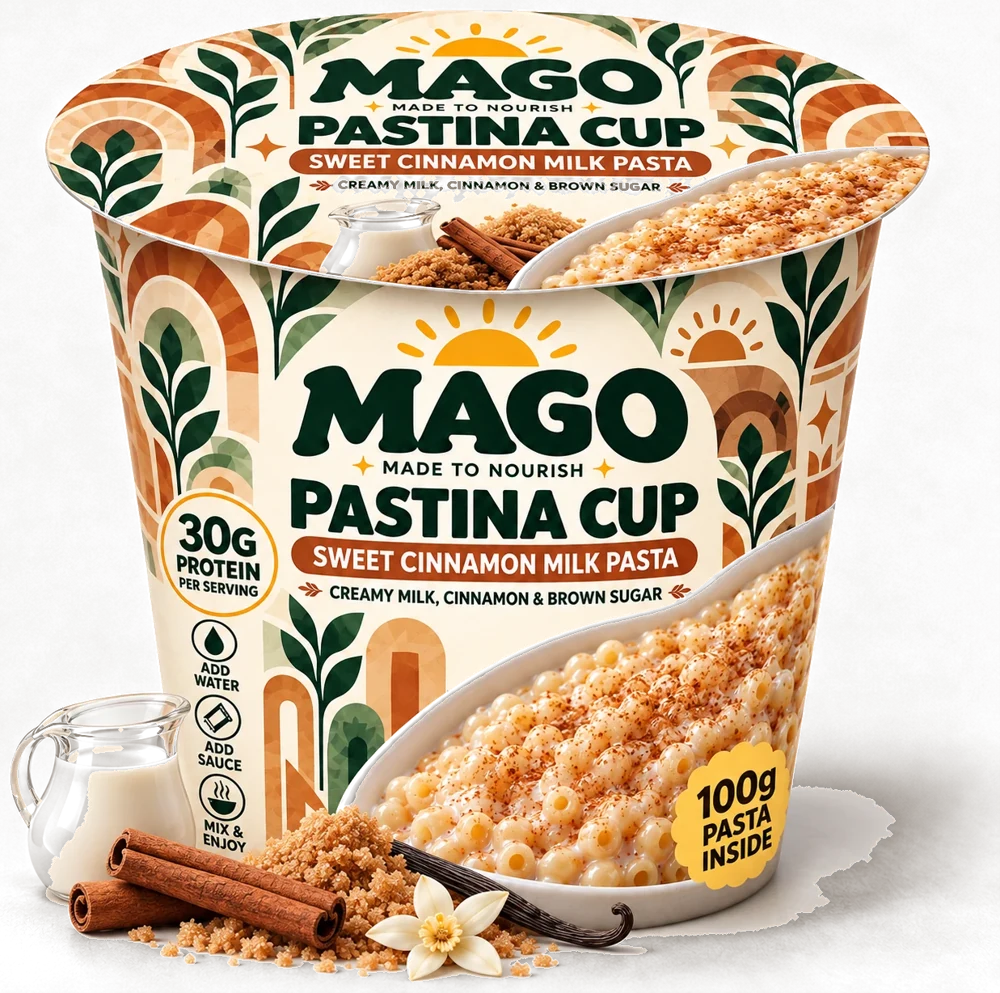
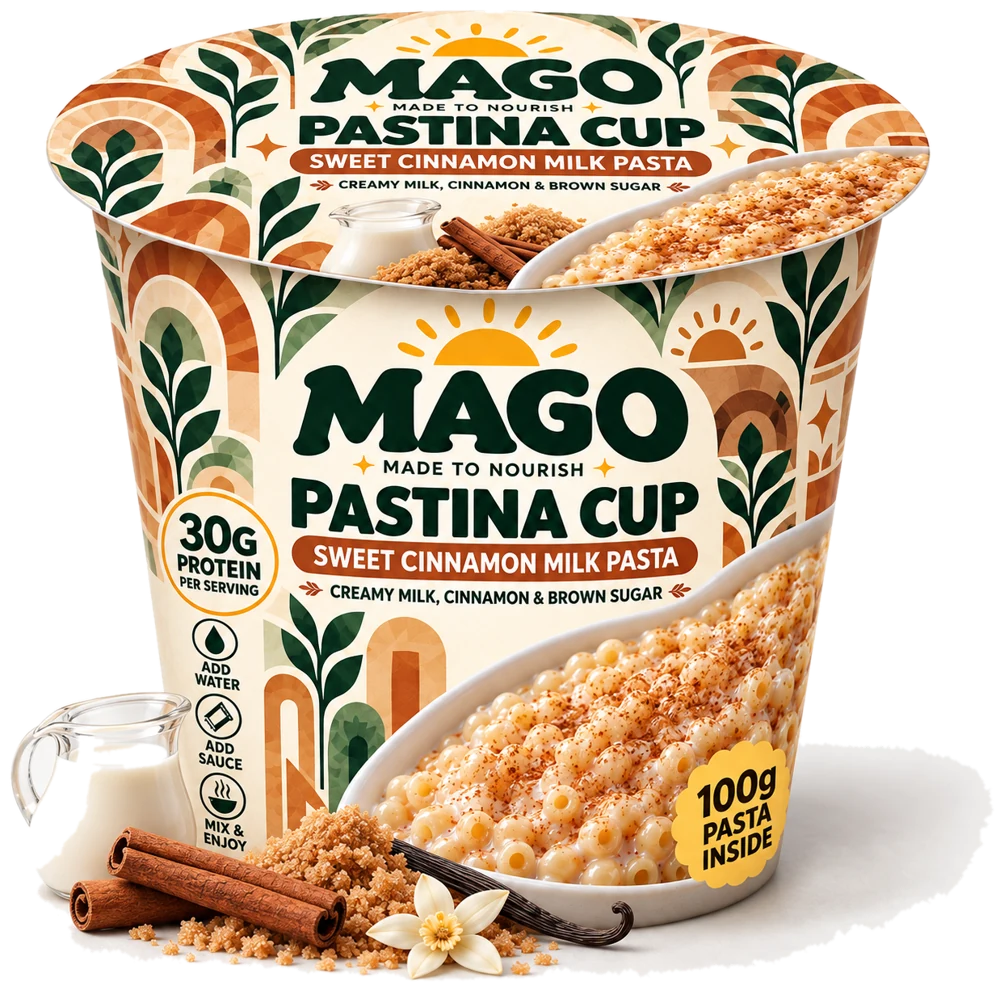
feat(home): Cup Collection uses the approved background; cleaner Pastina cutout

diff --git a/src/components/home/CupCollection.tsx b/src/components/home/CupCollection.tsx
@@ -4,7 +4,6 @@ import { ChevronLeft, ChevronRight, Pause, Play } from 'lucide-react';
 import Image from 'next/image';
 import Link from 'next/link';
 import { useEffect, useRef, useState, type CSSProperties } from 'react';
-import { ArchDecor, LeafSprig, SunMark } from '@/components/brand/Decor';
 import { ButtonLink } from '@/components/ui/Button';
 import { cutoutImage } from '@/lib/catalog/cutout';
 import { cn } from '@/lib/cn';
@@ -20,14 +19,6 @@ function offsetFrom(index: number, active: number, length: number): number {
 
 function packshot(p: Product) {
   return p.images.find((i) => i.kind === 'packshot') ?? p.images[0];
-}
-
-function Sparkle({ className }: { className?: string }) {
-  return (
-    <svg viewBox="0 0 24 24" className={cn('text-saffron', className)} aria-hidden fill="currentColor">
-      <path d="M12 0c.6 6.2 5.8 11.4 12 12-6.2.6-11.4 5.8-12 12C11.4 17.8 6.2 12.6 0 12 6.2 11.4 11.4 6.2 12 0Z" />
-    </svg>
-  );
 }
 
 /**
@@ -61,27 +52,11 @@ export function CupCollection({ products }: { products: Product[] }) {
   const current = products[active];
 
   return (
-    <section aria-labelledby="cup-collection-title" className="relative isolate overflow-hidden bg-[#fbf1e1] pt-9 pb-10 md:pt-14 md:pb-14">
-      {/* Mediterranean arches and leaves framing the section, as on the packaging. */}
-      <div aria-hidden className="pointer-events-none absolute inset-0 -z-10">
-        <ArchDecor tone="peach" className="absolute top-4 -left-12 w-24 opacity-75 md:top-10 md:w-36" />
-        <ArchDecor tone="sage" className="absolute top-[44%] -left-14 w-24 opacity-60 md:w-32" />
-        <ArchDecor tone="terracotta" className="absolute -bottom-20 left-6 w-20 opacity-45 md:w-28" />
-        <ArchDecor tone="terracotta" className="absolute top-2 -right-12 w-24 opacity-55 md:top-8 md:w-36" />
-        <ArchDecor tone="sage" className="absolute top-[46%] -right-14 w-24 opacity-60 md:w-32" />
-        <ArchDecor tone="peach" className="absolute right-4 -bottom-20 w-20 opacity-70 md:w-28" />
-        <LeafSprig className="absolute -top-2 left-3 w-12 -rotate-[30deg] text-leaf md:w-20" />
-        <LeafSprig className="absolute -top-1 right-4 w-12 rotate-[28deg] text-forest-light md:w-20" />
-        <LeafSprig className="absolute -bottom-6 -left-4 w-14 rotate-[210deg] text-forest-light md:w-24" />
-        <LeafSprig className="absolute -right-4 -bottom-6 w-14 rotate-[150deg] text-leaf md:w-24" />
-      </div>
+    <section aria-labelledby="cup-collection-title" className="relative isolate overflow-hidden bg-[#fcefd8] pt-32 pb-10 md:pt-40 md:pb-14">
+      {/* The approved background: arches and leaves in the corners, the sun at the top (a pattern image, the content is real text). */}
+      <div aria-hidden className="pointer-events-none absolute inset-0 -z-10 bg-[url('/images/cups-bg.webp')] bg-cover bg-[position:50%_0] md:bg-[length:100%_auto] md:bg-top md:bg-no-repeat" />
 
       <div className="relative px-4 text-center">
-        <div className="relative mx-auto w-fit">
-          <SunMark className="mx-auto w-16 md:w-20" />
-          <Sparkle className="absolute top-3 -left-10 size-4 md:-left-14 md:size-5" />
-          <Sparkle className="absolute top-6 -right-9 size-3 md:-right-12 md:size-4" />
-        </div>
         <h2
           id="cup-collection-title"
           className="mt-1 font-display text-[2.55rem] leading-[0.95] font-bold text-forest uppercase sm:text-5xl lg:text-6xl"
